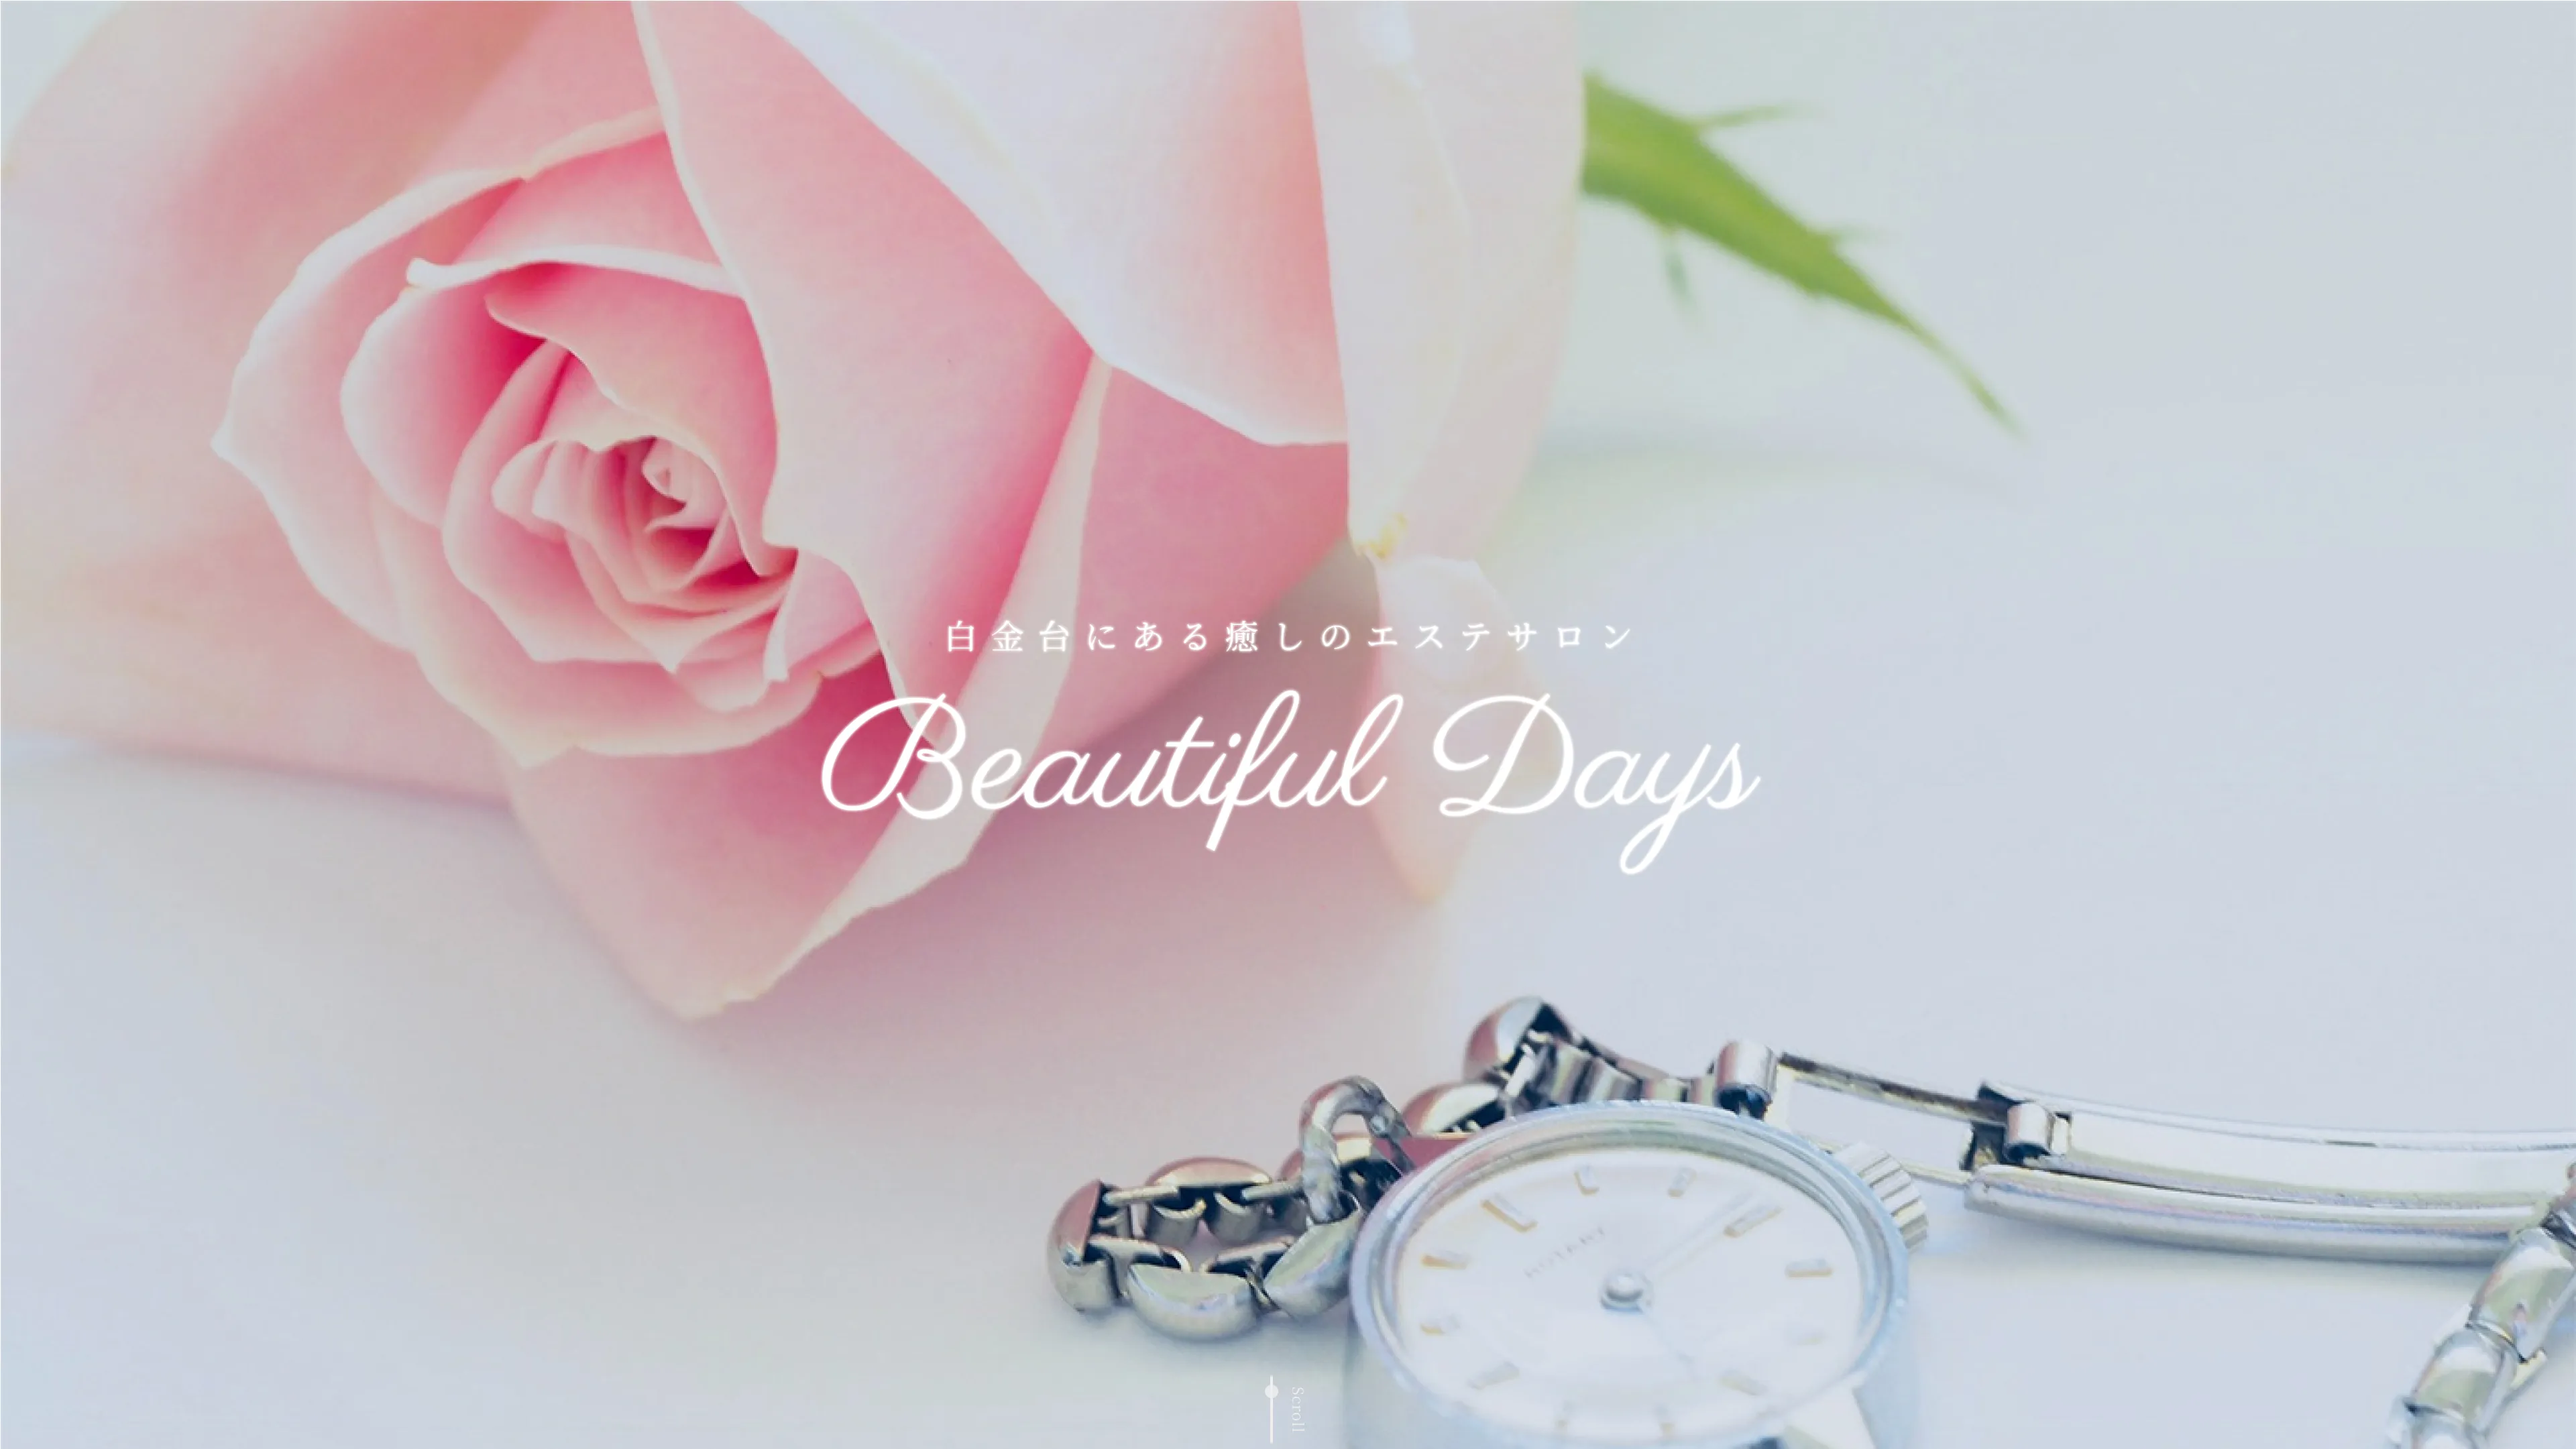
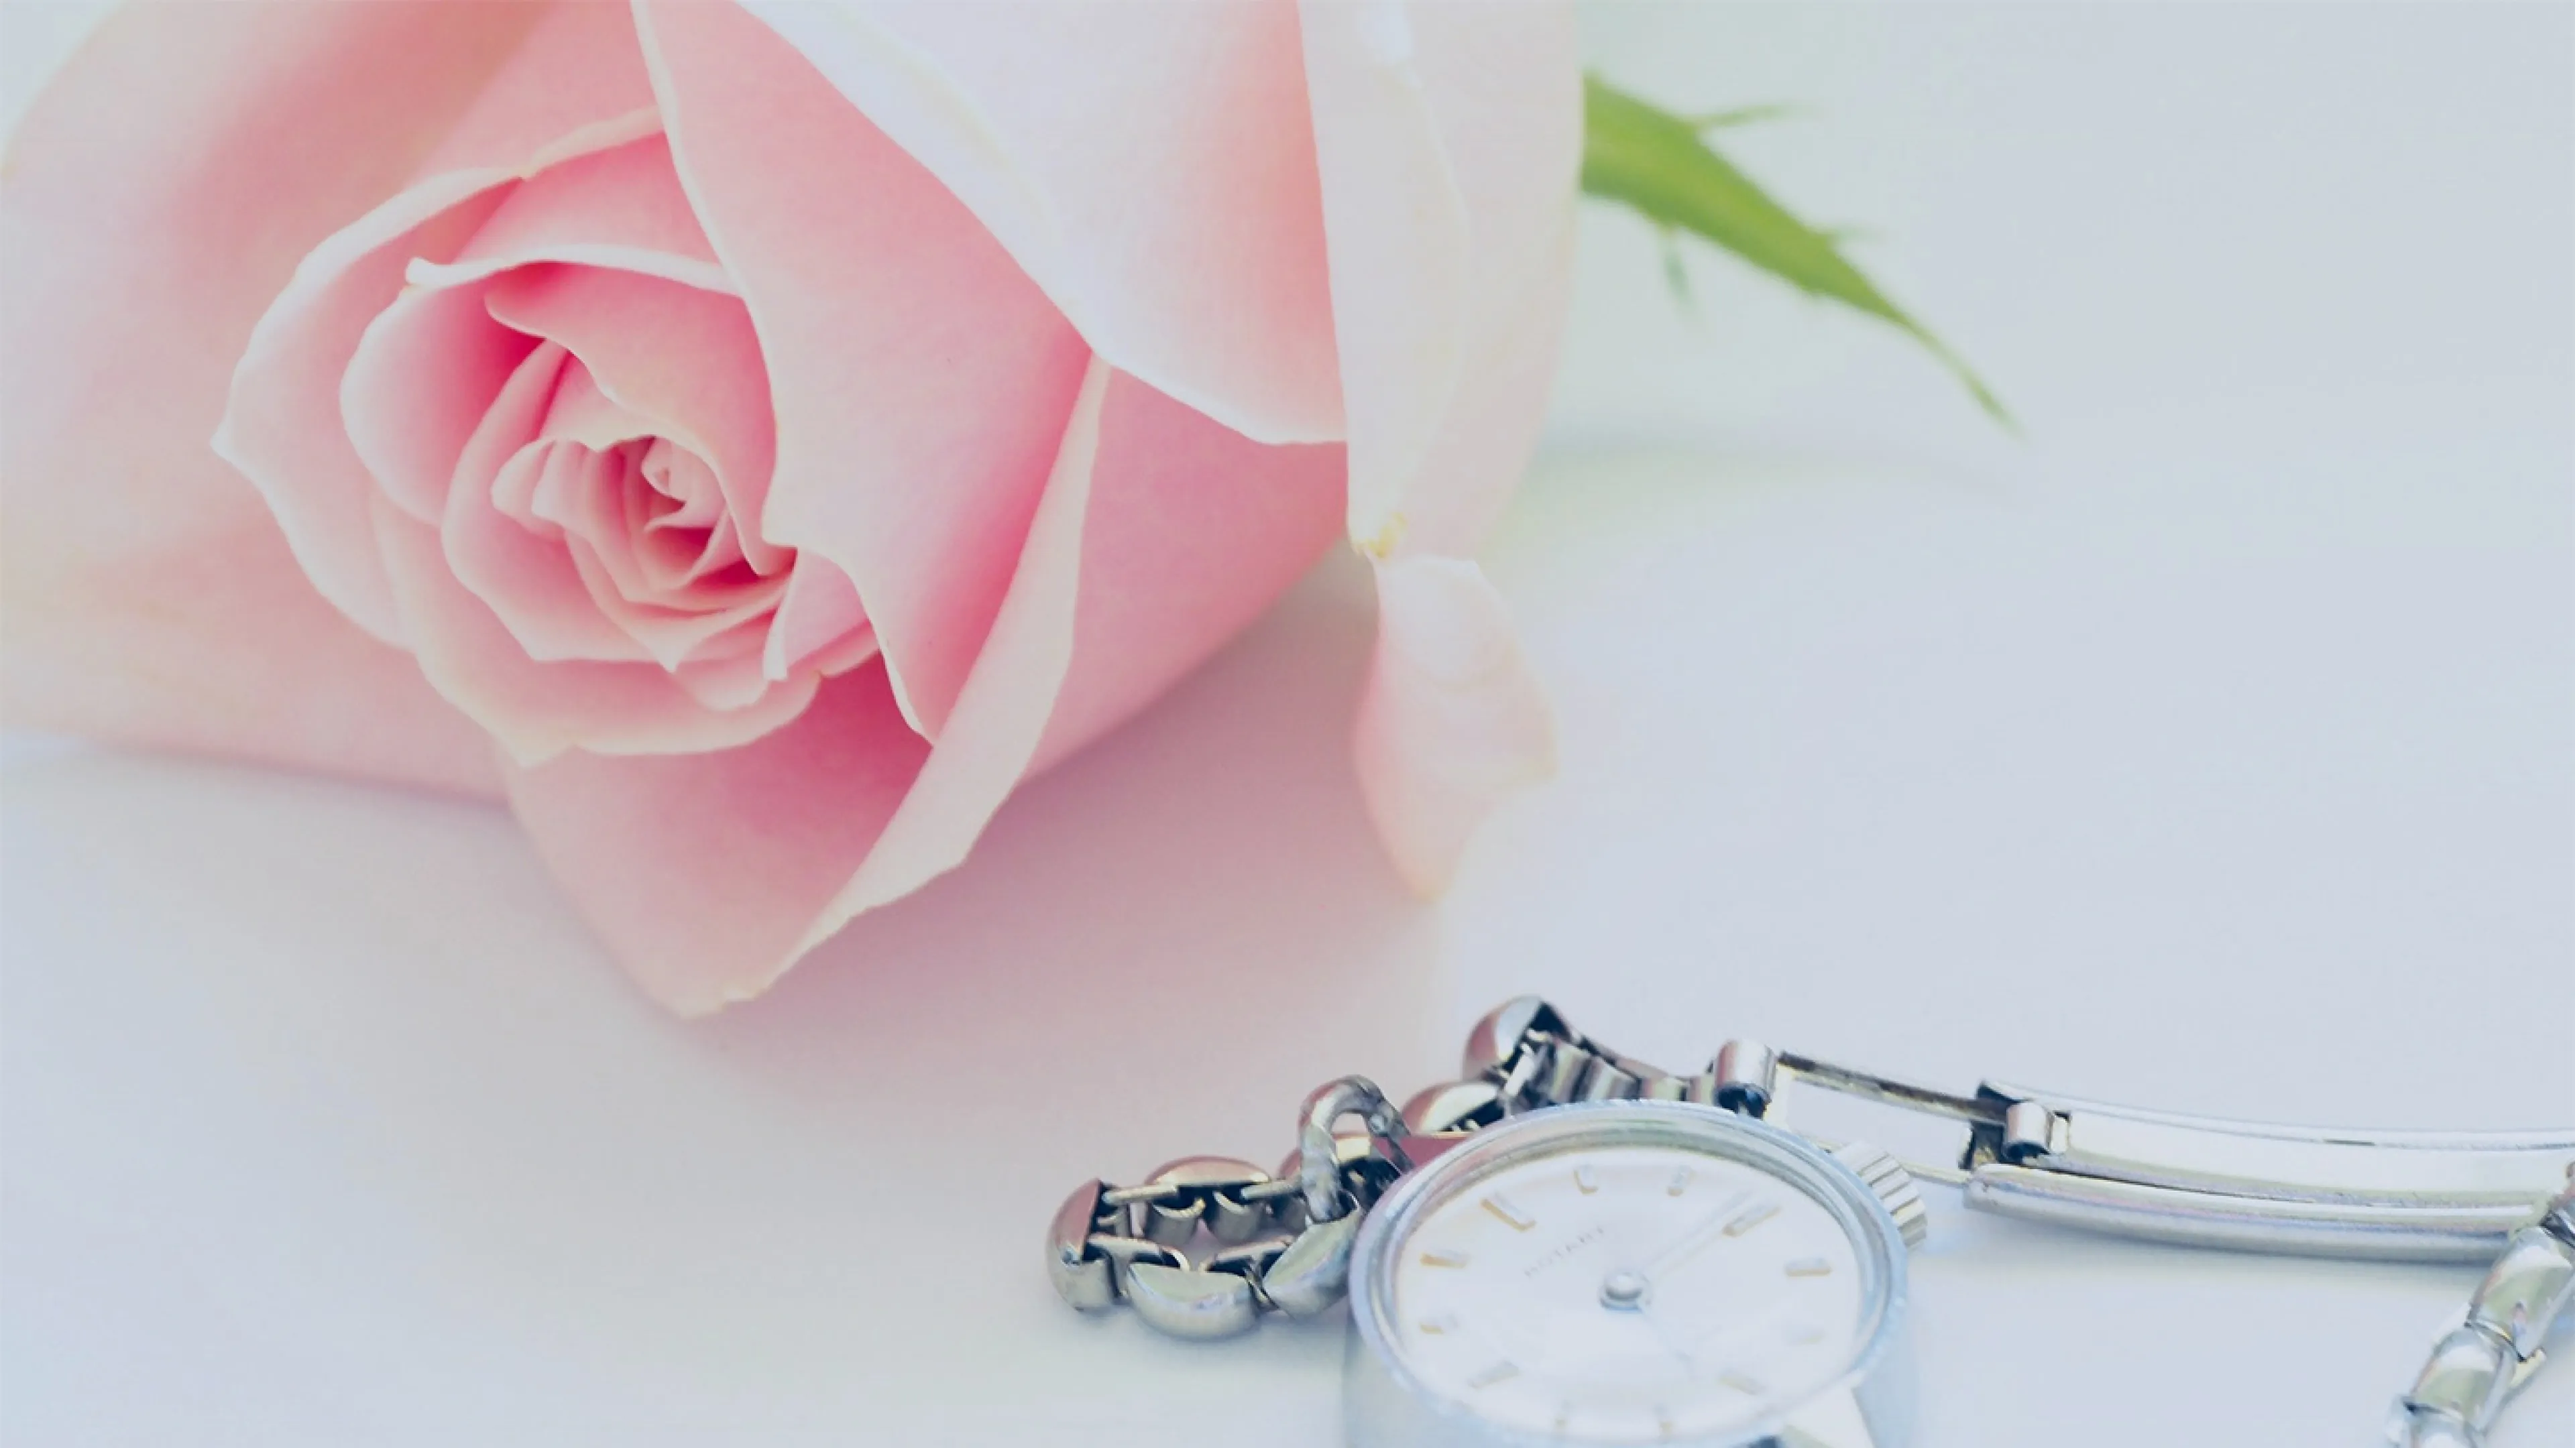
mv構築

Changed region(s): [[0.3125, 0.4343, 0.6875, 0.5894]]

diff --git a/棗/coding/index.html b/棗/coding/index.html
@@ -49,12 +49,12 @@
             <div class="p-mv__content">
                 <h1 class="p-mv__title">
                     <span class="p-mv__title-ja">白金台にある癒しのエステサロン</span>
-                    Beautiful Days
+                    <span class="p-mv__title-en">Beautiful Days</span>
                  </h1>
             </div>
             <div class="p-mv__image">
                 <picture>
-                    <source srcset="img/mv/mv.webp 1x,img/mv/mv@2x.webp 2x" type="webp">
+                    <source srcset="img/mv/mv.webp 1x,img/mv/mv@2x.webp 2x" type="image/webp">
                     <img src="img/mv/mv.jpg" srcset="img/mv/mv.jpg 1x,img/mv/mv@2x.jpg 2x" alt="">
                 </picture>
             </div>

diff --git a/棗/coding/scss/Project/_p-mv.scss b/棗/coding/scss/Project/_p-mv.scss
@@ -1,0 +1,38 @@
+@use "../Global/" as *;
+
+.p-mv__content {
+  width: 100%;
+  text-align: center;
+  position: absolute;
+  top: 50%;
+  left: 50%;
+  transform: translate(-50%, -50%);
+  z-index: 10;
+}
+.p-mv__title {
+  color: var(--white);
+  font-weight: normal;
+  @include text-shadow;
+}
+.p-mv__title-ja {
+  display: block;
+  font-size: rem(25);
+}
+.p-mv__title-en {
+  display: block;
+  font-size: rem(115.2);
+  font-family: $font-family-title;
+}
+.p-mv__image {
+  width: 100%;
+  height: 100%;
+  position: absolute;
+  top: 0;
+  left: 0;
+  img {
+    width: 100%;
+    height: 100%;
+    object-fit: cover;
+    object-position: center;
+  }
+}

diff --git a/棗/coding/scss/Layout/_l-section.scss b/棗/coding/scss/Layout/_l-section.scss
@@ -1,0 +1,9 @@
+@use '../Global/' as *;
+
+.l-mv {
+    width: 100%;
+    height: 100vh;
+    height: 100dvh;
+    position: relative;
+    overflow: hidden;
+}

diff --git a/棗/coding/scss/Layout/_index.scss b/棗/coding/scss/Layout/_index.scss
@@ -2,3 +2,4 @@
 
 @use "l-header";
 @use "l-footer";
+@use "l-section";

diff --git a/棗/coding/scss/Project/_index.scss b/棗/coding/scss/Project/_index.scss
@@ -1,1 +1,1 @@
-@use 'p-sample';
+@use 'p-mv';
